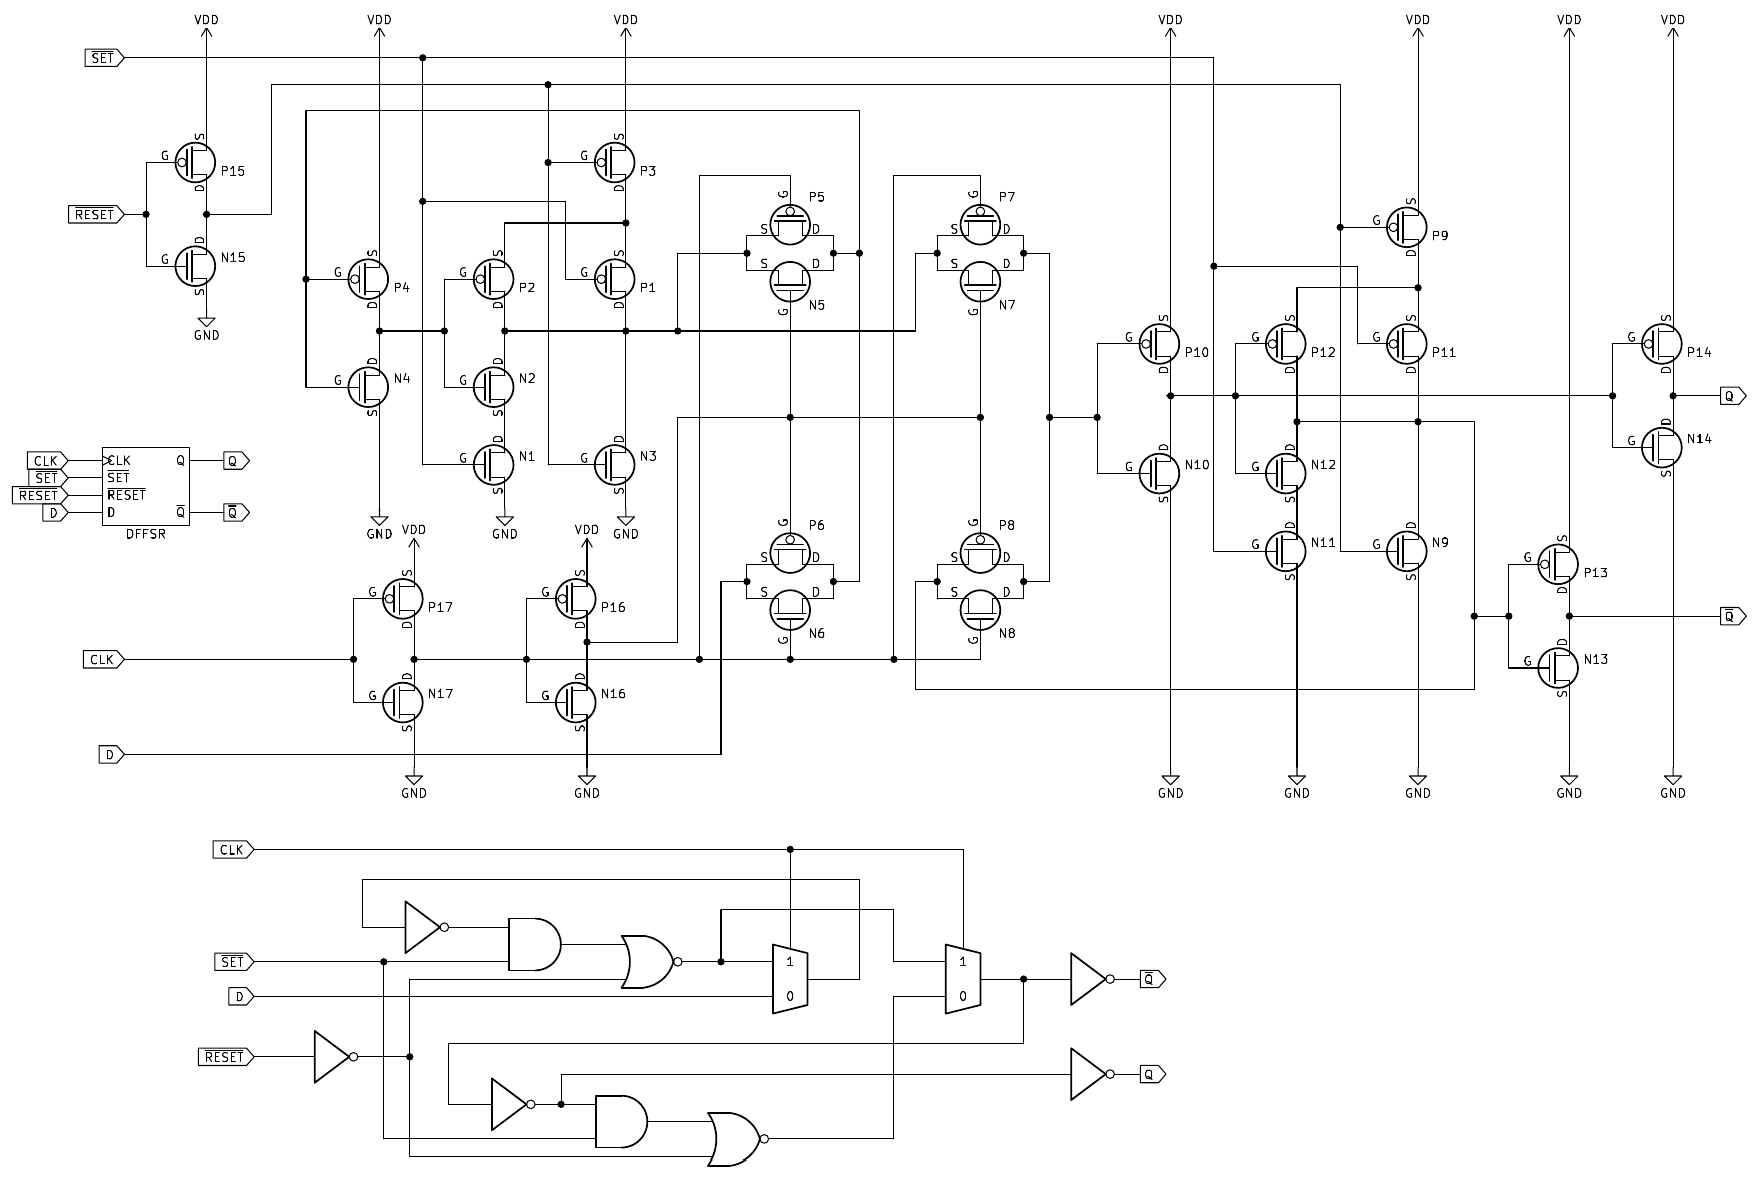
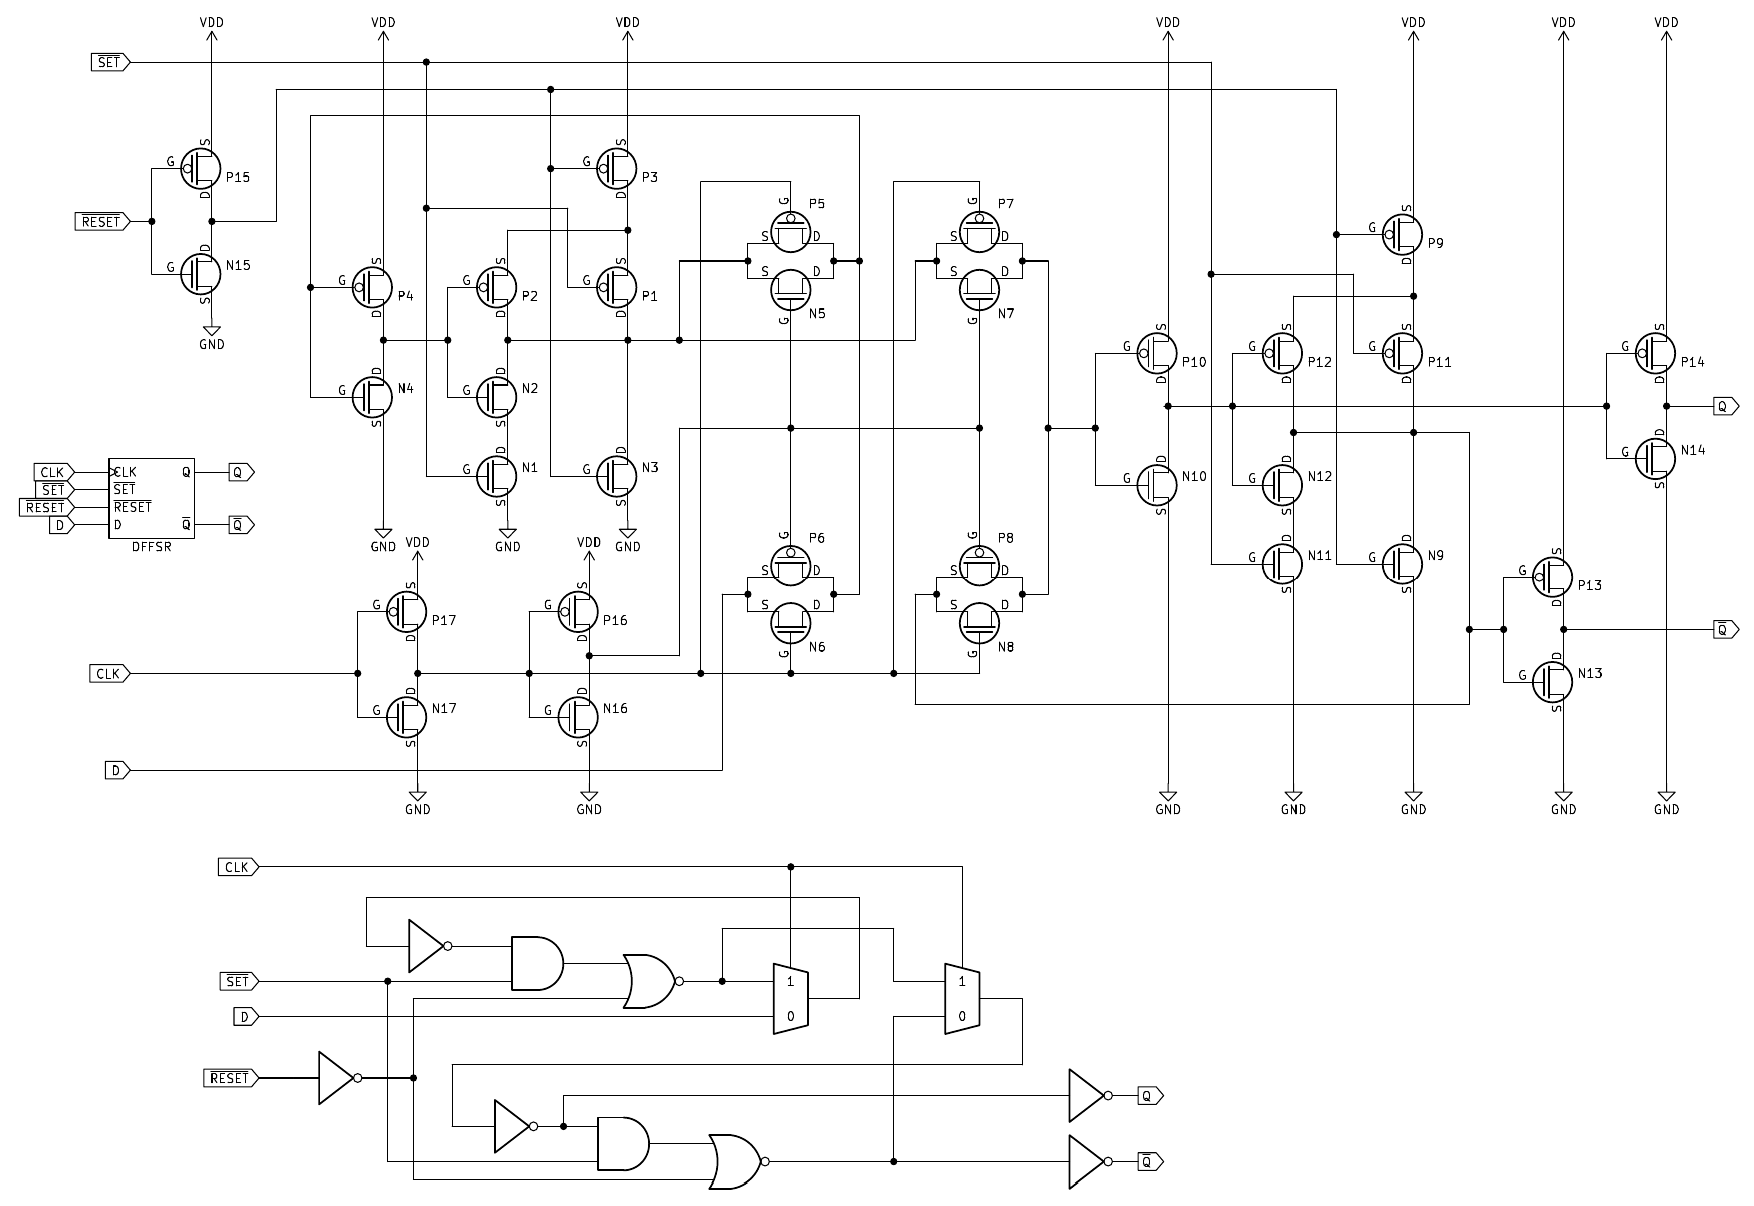
DMG Cells: Fix DFFSR schematic

diff --git a/doc/dmg_cells.html b/doc/dmg_cells.html
@@ -4894,7 +4894,7 @@ input has priority over <span style="text-decoration:overline"><i>SET</i></span>
 </table></td></tr>
 </table>
 <p><img src="img/cells/dffsr_layout.png?v=0" alt=""></p>
-<p><img src="img/cells/dffsr_sch.png?v=1" alt=""></p>
+<p><img src="img/cells/dffsr_sch.png?v=2" alt=""></p>
 <p>Instances:
 <a href="/dmg_cpu_b_map/?view=c:axan">AXAN</a>
 <a href="/dmg_cpu_b_map/?view=c:agez">AGEZ</a>
